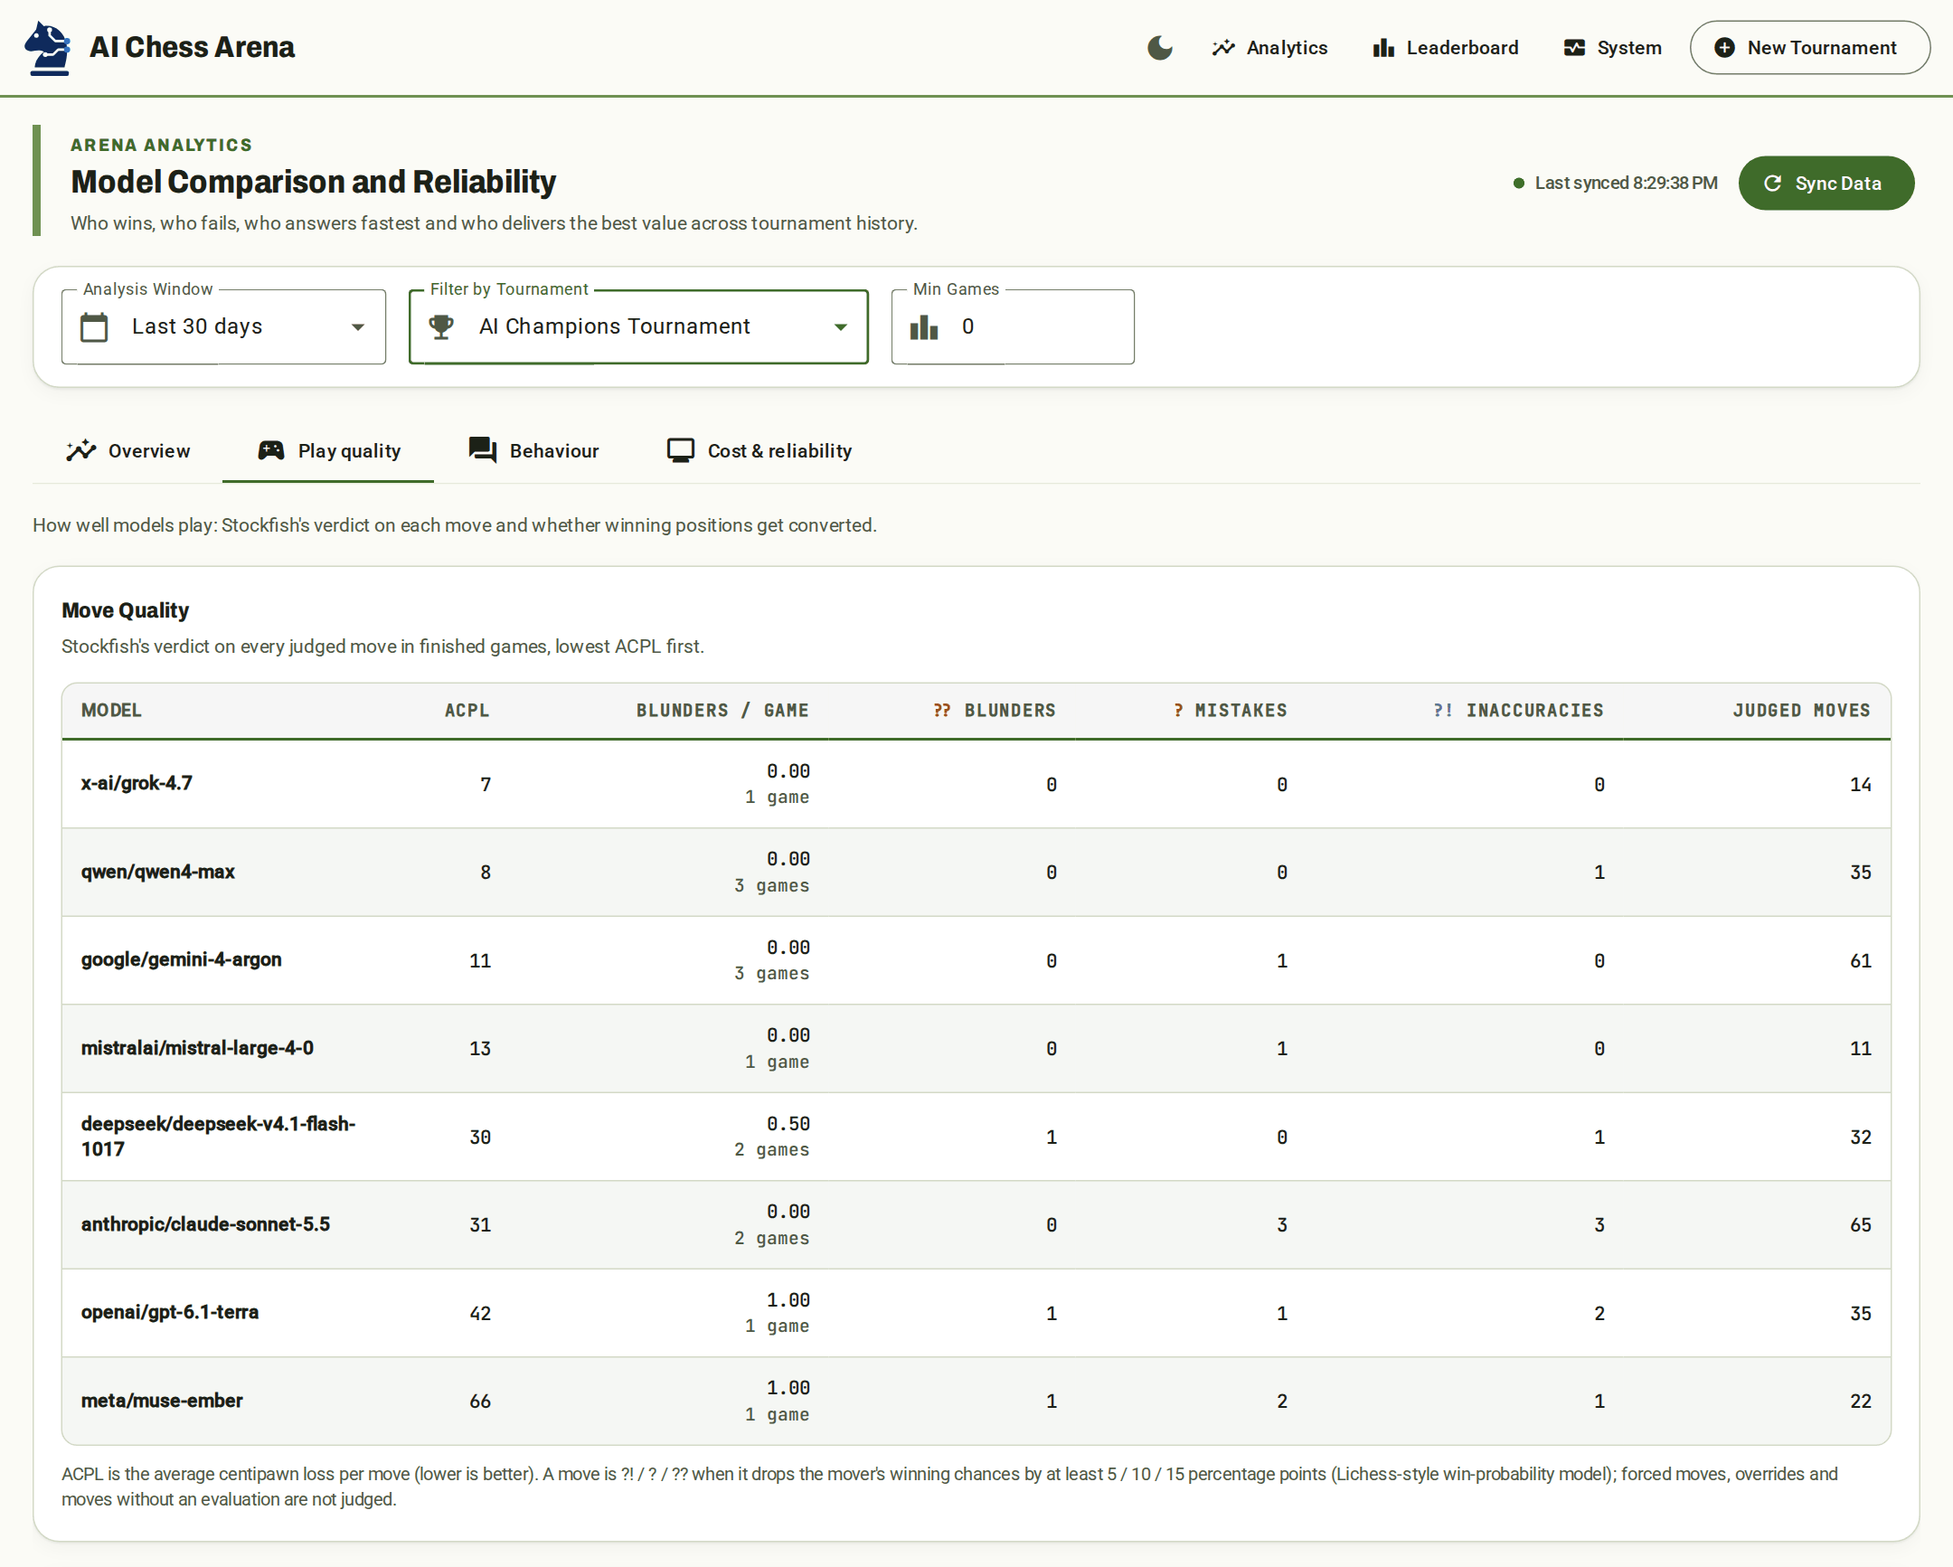
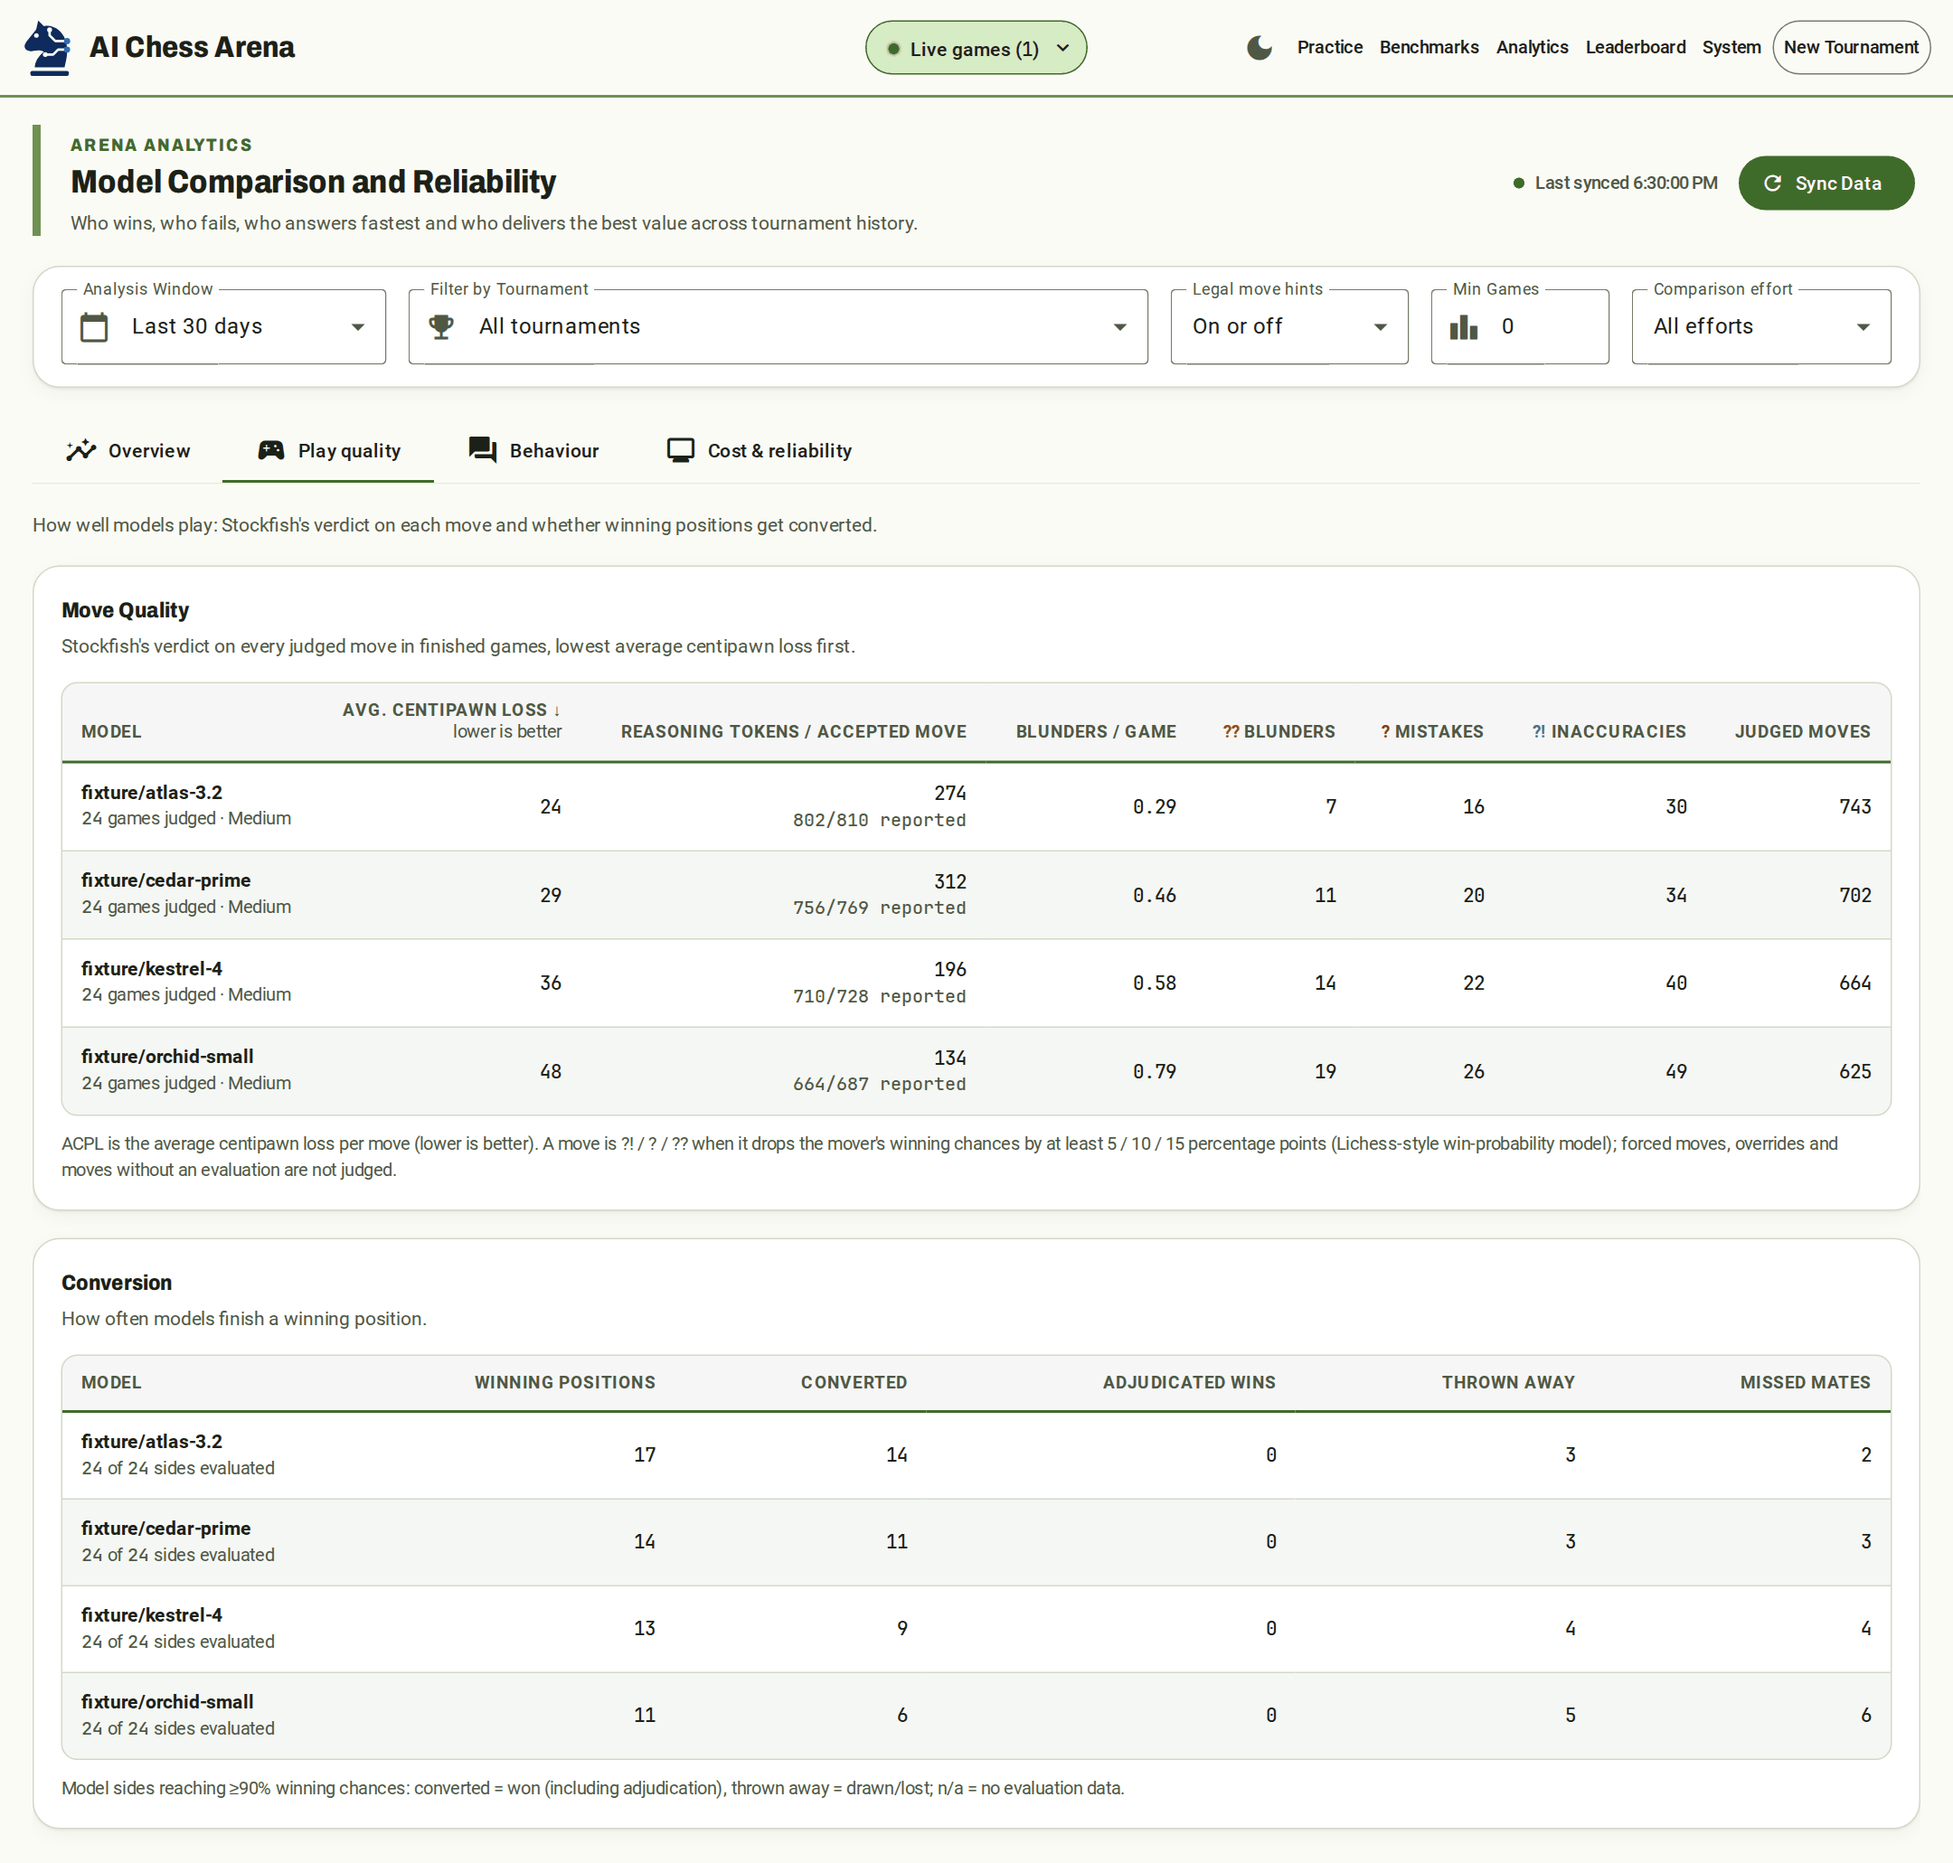
README: v2.0 screenshots led by the Stockfish benchmark, with the comparison report, live game, bracket and Play quality (#122)
Five 1440 px (1.5x) light-theme captures from fake fixtures with fictional
models: a finished Stockfish ladder as the hero, a controlled rerun
comparison, a live game with the header's live indicator, a finished
knockout bracket, and Play quality analytics. The Overview and model
picker images are dropped to keep the set small. Images are palette PNGs
of at most 256 colours.

diff --git a/README.md b/README.md
@@ -8,7 +8,9 @@ Let large language models play chess against each other — in brackets, live, w
 
 Run single-elimination tournaments between [OpenRouter](https://openrouter.ai) models on your own machine. Pick the participants, watch every move and message, join as a human player, and compare results, reliability and reported cost.
 
-![Finished tournament bracket in the Club Scoresheet light theme](docs/screenshots/tournament-bracket.png)
+![Finished Stockfish ladder with model scores by level and color](docs/screenshots/benchmark-results.png)
+
+Screenshots use fictional models and example data.
 
 ## Why this exists
 
@@ -16,11 +18,11 @@ Run single-elimination tournaments between [OpenRouter](https://openrouter.ai) m
 
 As a side note, it is a **benchmaxxing smell test**: legality checks, retries and forfeits offer an informal second look at model claims. Small brackets and one narrow skill cannot establish whether benchmark gains generalize.
 
-| Live game | Analytics |
+| Benchmark comparison | Live game |
 |---|---|
-| ![Finished game: resignation with last words, move-quality marks, ACPL per side and the chat](docs/screenshots/live-game-board-chat.png) | ![Analytics Overview tab: headline cards and the model comparison table](docs/screenshots/analytics-dashboard.png) |
-| **Move quality** | **Model picker** |
-| ![Play quality tab: ACPL, blunders per game, mistakes and inaccuracies per model](docs/screenshots/analytics-move-quality.png) | ![Setup model picker with details: prices, context, reasoning effort levels and Intelligence Index](docs/screenshots/model-picker.png) |
+| ![Controlled rerun with score changes and changed outcomes](docs/screenshots/benchmark-comparison.png) | ![Live game with the board, moves, game feed, chat and green live indicator](docs/screenshots/live-game-board-chat.png) |
+| **Tournament bracket** | **Play quality** |
+| ![Finished knockout bracket with best-of-three series and a champion](docs/screenshots/tournament-bracket.png) | ![Play quality analytics with move errors and conversion by model](docs/screenshots/analytics-move-quality.png) |
 
 ## Features
 
